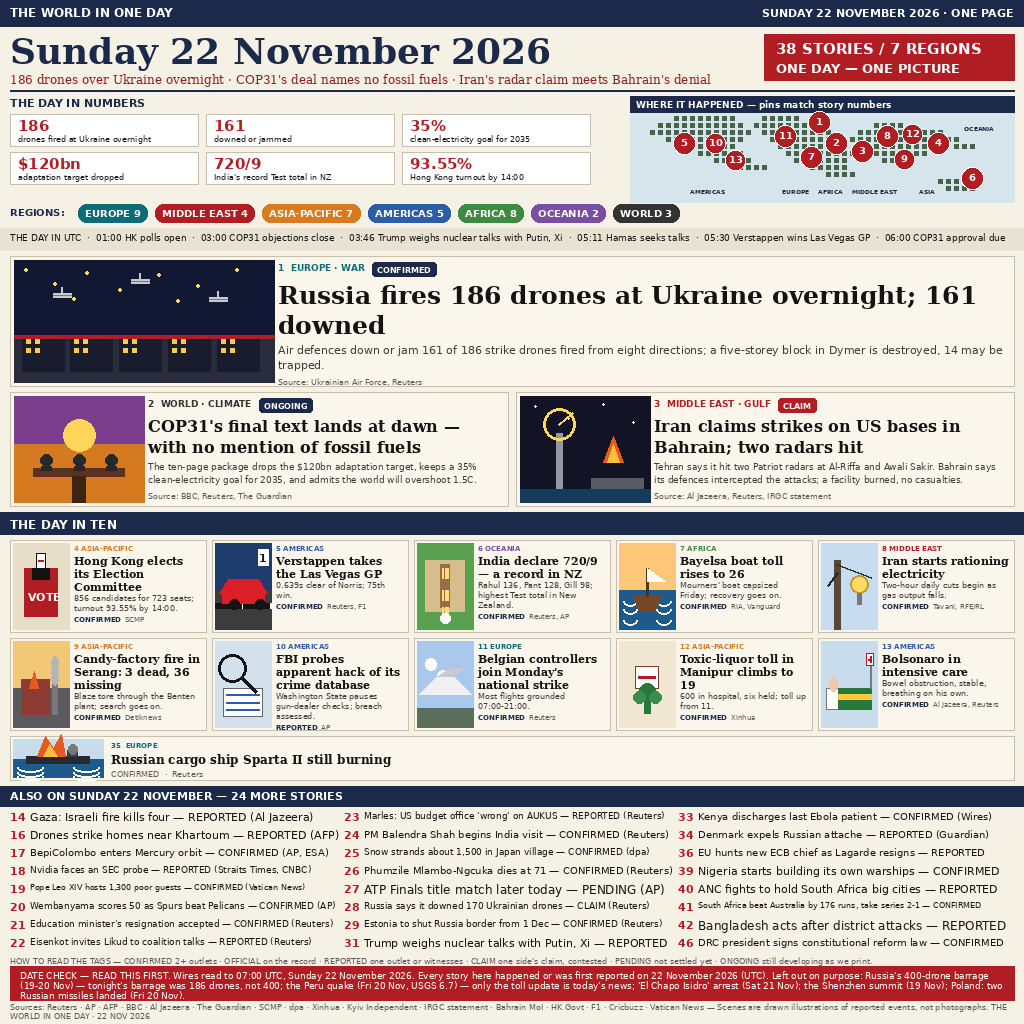
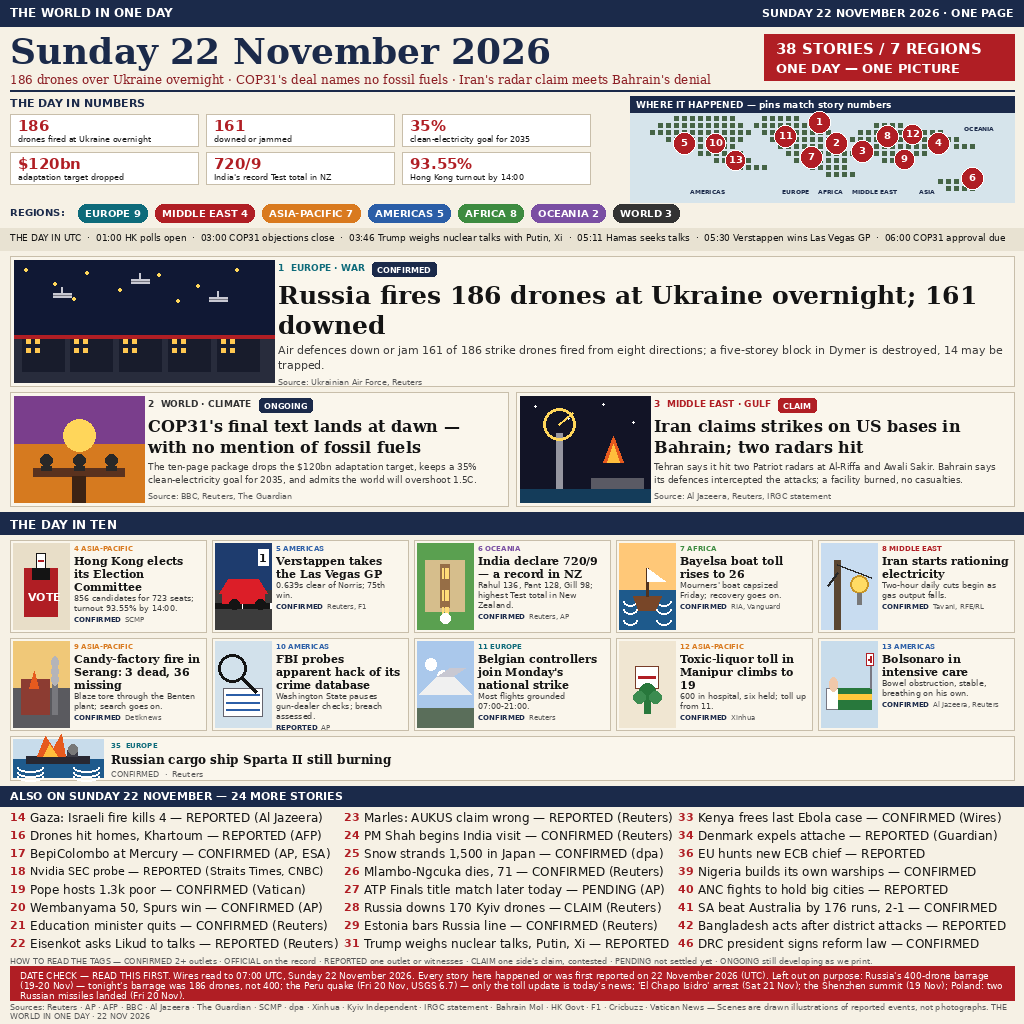
news-image-20261122 round 5 fix: ALSO list at full 12px (23/24 rows)
Shorten 22 ALSO headlines so the shrink-to-fit loop stops shrinking
them: 2/24 rows rendered at 12px before, 23/24 after (only #18
Nvidia SEC probe stays at 11px — headline already minimal at 16
chars, dual source 21 chars; dropping the story would cost a real
headline for 1px of type). No stories dropped, total stays 38,
all status tags and sources kept (only #19 source shortened
Vatican News -> Vatican). entry.png 1024x1024, render 2x
byte-identical.

Changed region(s): [[0.0312, 0.7812, 0.6562, 0.9375], [0.6875, 0.7812, 0.9688, 0.9375]]

diff --git a/render.py b/render.py
@@ -414,39 +414,39 @@ TEN = [
 ]
 
 ALSO = [
-    (14, "MIDDLE EAST", "Gaza: Israeli fire kills four", "REPORTED", "Al Jazeera"),
+    (14, "MIDDLE EAST", "Gaza: Israeli fire kills 4", "REPORTED", "Al Jazeera"),
     (15, "MIDDLE EAST", "Hamas seeks urgent talks after aid strike", "REPORTED", ""),
-    (16, "AFRICA", "Drones strike homes near Khartoum", "REPORTED", "AFP"),
-    (17, "WORLD", "BepiColombo enters Mercury orbit", "CONFIRMED", "AP, ESA"),
-    (18, "AMERICAS", "Nvidia faces an SEC probe", "REPORTED", "Straits Times, CNBC"),
-    (19, "EUROPE", "Pope Leo XIV hosts 1,300 poor guests", "CONFIRMED", "Vatican News"),
-    (20, "AMERICAS", "Wembanyama scores 50 as Spurs beat Pelicans", "CONFIRMED", "AP"),
-    (21, "ASIA-PACIFIC", "Education minister's resignation accepted", "CONFIRMED", "Reuters"),
-    (22, "MIDDLE EAST", "Eisenkot invites Likud to coalition talks", "REPORTED", "Reuters"),
-    (23, "OCEANIA", "Marles: US budget office 'wrong' on AUKUS", "REPORTED", "Reuters"),
-    (24, "ASIA-PACIFIC", "PM Balendra Shah begins India visit", "CONFIRMED", "Reuters"),
-    (25, "ASIA-PACIFIC", "Snow strands about 1,500 in Japan village", "CONFIRMED", "dpa"),
-    (26, "AFRICA", "Phumzile Mlambo-Ngcuka dies at 71", "CONFIRMED", "Reuters"),
+    (16, "AFRICA", "Drones hit homes, Khartoum", "REPORTED", "AFP"),
+    (17, "WORLD", "BepiColombo at Mercury", "CONFIRMED", "AP, ESA"),
+    (18, "AMERICAS", "Nvidia SEC probe", "REPORTED", "Straits Times, CNBC"),
+    (19, "EUROPE", "Pope hosts 1.3k poor", "CONFIRMED", "Vatican"),
+    (20, "AMERICAS", "Wembanyama 50, Spurs win", "CONFIRMED", "AP"),
+    (21, "ASIA-PACIFIC", "Education minister quits", "CONFIRMED", "Reuters"),
+    (22, "MIDDLE EAST", "Eisenkot asks Likud to talks", "REPORTED", "Reuters"),
+    (23, "OCEANIA", "Marles: AUKUS claim wrong", "REPORTED", "Reuters"),
+    (24, "ASIA-PACIFIC", "PM Shah begins India visit", "CONFIRMED", "Reuters"),
+    (25, "ASIA-PACIFIC", "Snow strands 1,500 in Japan", "CONFIRMED", "dpa"),
+    (26, "AFRICA", "Mlambo-Ngcuka dies, 71", "CONFIRMED", "Reuters"),
     (27, "EUROPE", "ATP Finals title match later today", "PENDING", "AP"),
-    (28, "EUROPE", "Russia says it downed 170 Ukrainian drones", "CLAIM", "Reuters"),
-    (29, "EUROPE", "Estonia to shut Russia border from 1 Dec", "CONFIRMED", "Reuters"),
+    (28, "EUROPE", "Russia downs 170 Kyiv drones", "CLAIM", "Reuters"),
+    (29, "EUROPE", "Estonia bars Russia line", "CONFIRMED", "Reuters"),
     (30, "EUROPE", "Norway court voids oil licences", "CONFIRMED", ""),
-    (31, "WORLD", "Trump weighs nuclear talks with Putin, Xi", "REPORTED", ""),
+    (31, "WORLD", "Trump weighs nuclear talks, Putin, Xi", "REPORTED", ""),
     (32, "WORLD", "UN killer-robot talks fail", "CONFIRMED", ""),
-    (33, "AFRICA", "Kenya discharges last Ebola patient", "CONFIRMED", "Wires"),
-    (34, "EUROPE", "Denmark expels Russian attache", "REPORTED", "Guardian"),
+    (33, "AFRICA", "Kenya frees last Ebola case", "CONFIRMED", "Wires"),
+    (34, "EUROPE", "Denmark expels attache", "REPORTED", "Guardian"),
     (35, "EUROPE", "Russian cargo ship Sparta II still burning", "CONFIRMED", "Reuters"),
-    (36, "EUROPE", "EU hunts new ECB chief as Lagarde resigns", "REPORTED", ""),
+    (36, "EUROPE", "EU hunts new ECB chief", "REPORTED", ""),
     (37, "EUROPE", "Kerch bridge struck by Ukraine", "REPORTED", ""),
     (38, "AFRICA", "Ghana launches heritage banknotes", "CONFIRMED", ""),
-    (39, "AFRICA", "Nigeria starts building its own warships", "CONFIRMED", ""),
-    (40, "AFRICA", "ANC fights to hold South Africa big cities", "REPORTED", ""),
-    (41, "AFRICA", "South Africa beat Australia by 176 runs, take series 2-1", "CONFIRMED", ""),
+    (39, "AFRICA", "Nigeria builds its own warships", "CONFIRMED", ""),
+    (40, "AFRICA", "ANC fights to hold big cities", "REPORTED", ""),
+    (41, "AFRICA", "SA beat Australia by 176 runs, 2-1", "CONFIRMED", ""),
     (42, "ASIA-PACIFIC", "Bangladesh acts after district attacks", "REPORTED", ""),
     (43, "AMERICAS", "Teen gamer, 16, helps FBI rescue kidnapped girl", "REPORTED", ""),
     (44, "AMERICAS", "US declassifies new UFO footage from Middle East", "REPORTED", ""),
     (45, "EUROPE", "Germany coalition talks: SPD, Greens and Left", "REPORTED", ""),
-    (46, "AFRICA", "DRC president signs constitutional reform law", "CONFIRMED", ""),
+    (46, "AFRICA", "DRC president signs reform law", "CONFIRMED", ""),
 ]
 
 NUMBERS = [
